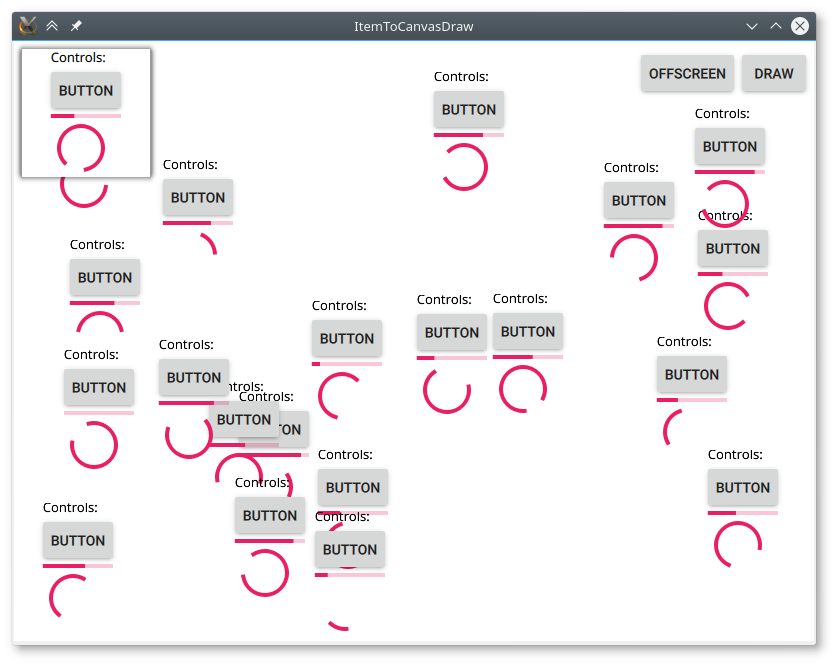
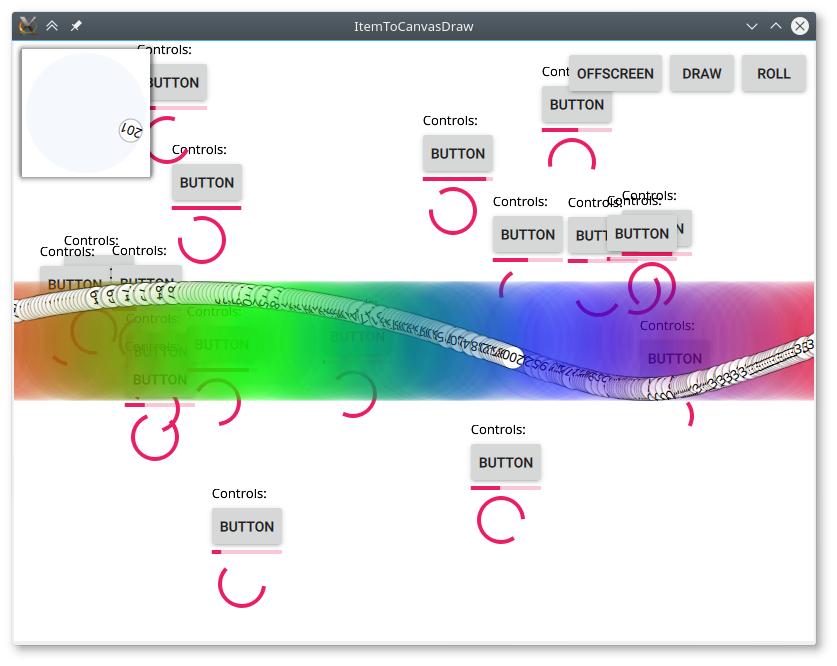
add sprite_generator to 001.ItemToCanvasDraw

diff --git a/001.ItemToCanvasDraw/sprite_generator.qml b/001.ItemToCanvasDraw/sprite_generator.qml
@@ -1,0 +1,171 @@
+
+import QtQuick 2.7
+import QtQuick.Window 2.2
+import QtQuick.Controls 2.0
+import QtGraphicalEffects 1.0
+
+Window {
+	id: window
+	title: "ItemToCanvasDraw"
+	visible: true
+	width: Math.max(800, recorder.width+16+sprite.width)
+	height: Math.max(600, recorder.height+16)
+
+	property int frameCounter: 0
+
+	Rectangle {
+		id: recorder
+		anchors.left: parent.left
+		anchors.bottom: parent.bottom
+		anchors.margins: 8
+		border.color: "black"
+		border.width: 1
+		width: item.width*6
+		height: item.height*5
+
+		Canvas {
+			id: canvas
+			anchors.fill: parent
+
+			property int counter
+
+			onPaint: {
+				if (!item.texture)
+					return
+
+				record(getContext("2d"))
+			}
+
+			onPainted: {
+				if (counter == 30) {
+					grabToImage(function(result){
+						result.saveToFile("sprite.png")
+					})
+				}
+			}
+
+			function record(ctx){
+				if (counter==0)
+					ctx.clearRect(0, 0, width, height)
+				var x = item.width * (counter % 6)
+				var y = item.height * parseInt(counter / 6)
+				ctx.drawImage(item.texture.url, x, y)
+				counter++
+			}
+		}
+	}
+
+	Rectangle {
+		id: player
+		anchors.top: recorder.top
+		anchors.left: recorder.right
+		anchors.right: parent.right
+		anchors.bottom: parent.bottom
+		anchors.leftMargin: 8
+		anchors.rightMargin: 8
+		anchors.bottomMargin: 8
+		border.color: "black"
+		border.width: 1
+
+		AnimatedSprite {
+			id: sprite
+			width: frameWidth
+			height: frameHeight
+			anchors.centerIn: parent
+			frameCount: 30
+			frameWidth: item.width
+			frameHeight: item.height
+			loops: 1
+			interpolate: true
+			running: false
+
+			onRunningChanged: {
+				if (!running)
+					sprite.source = ""
+			}
+		}
+	}
+
+	Rectangle {
+		id: itemView
+		anchors.margins: 8
+		anchors.top: parent.top
+		anchors.left: parent.left
+		width: item.width + 8
+		height: item.height + 8
+
+		Item {
+			id: item
+			anchors.centerIn: parent
+			width: 120
+			height: width
+
+			property var texture: null
+
+			Column {
+				anchors.centerIn: parent
+
+				Text {
+					text: "Controls:"
+				}
+
+				Button {
+					text: canvas.counter
+				}
+
+				BusyIndicator {
+					running: true
+				}
+			}
+
+		}
+
+		layer.enabled: true
+		layer.effect: Glow {
+			color: Qt.rgba(0, 0, 0, .4)
+			radius: 8
+			samples: 15
+			transparentBorder: true
+		}
+	}
+
+	Row {
+		id: controls
+		anchors.margins: 8
+		anchors.top: parent.top
+		anchors.right: parent.right
+		spacing: 8
+
+		Button {
+			text: "record"
+			onClicked: {
+				canvas.counter = 0
+				window.draw()
+			}
+		}
+
+		Button {
+			text: "play"
+			onClicked: {
+				sprite.running = false
+				sprite.frameRate = Math.random()>.5?3:30
+				sprite.source = "sprite.png"
+				sprite.start()
+			}
+		}
+	}
+
+	onFrameSwapped: {
+		frameCounter++
+		if ((frameCounter&1) && canvas.counter<30) {
+			draw()
+		}
+	}
+
+	function draw() {
+		item.grabToImage(function(result){
+			item.texture = result
+			canvas.requestPaint()
+		})
+	}
+}

diff --git a/001.ItemToCanvasDraw/main.qml b/001.ItemToCanvasDraw/main.qml
@@ -21,7 +21,7 @@ Window {
 		id: canvas
 		anchors.fill: parent
 
-		property var paintFunc: canvas.randomDraw
+		property var paintFunc: item.showWheel?traceWheel:randomDraw
 
 		onPaint: {
 			if (!item.texture)
@@ -37,6 +37,12 @@ Window {
 		function randomDraw(ctx){
 			var x = Math.random()*(width-item.width)
 			var y = Math.random()*(height-item.height)
+			ctx.drawImage(item.texture.url, x, y)
+		}
+
+		function traceWheel(ctx){
+			var x = wheel.deg * (width+item.width)/360-item.width
+			var y = (height-item.height)/2
 			ctx.drawImage(item.texture.url, x, y)
 		}
 	}
@@ -58,8 +64,10 @@ Window {
 			height: width
 
 			property var texture: null
+			property bool showWheel: false
 
 			Column {
+				visible: !parent.showWheel
 				anchors.centerIn: parent
 
 				Text {
@@ -79,6 +87,49 @@ Window {
 
 				BusyIndicator {
 					running: true
+				}
+			}
+
+			Rectangle {
+				id: wheel
+				visible: parent.showWheel
+				width: Math.min(parent.width, parent.height)
+				height: width
+				radius: width
+
+				property real deg: 360
+
+				color: Qt.rgba(1-(deg<120?deg:360-deg)/120, 1-Math.abs(deg-120)/120, 1-Math.abs(deg-240)/120, .04)
+				rotation: deg
+
+				Rectangle {
+					y: parent.height/2-height/2
+					width: 24
+					height: width
+					radius: width
+					border.color: "#40000000"
+					border.width: 1
+
+					Text {
+						anchors.centerIn: parent
+						text: parent.parent.deg.toFixed(0)
+					}
+				}
+
+				onDegChanged: {
+					if (visible) {
+						window.draw()
+					}
+				}
+
+				NumberAnimation {
+					loops: Animation.Infinite
+					running: true
+					target: wheel
+					property: "deg"
+					from: 0
+					to: 360
+					duration: 5000
 				}
 			}
 		}
@@ -108,8 +159,16 @@ Window {
 		Button {
 			text: "draw"
 			onClicked: {
+				item.showWheel = false
 				text.text = Math.random()
 				window.draw()
+			}
+		}
+
+		Button {
+			text: "roll"
+			onClicked: {
+				item.showWheel = true
 			}
 		}
 	}

diff --git a/001.ItemToCanvasDraw/README.md b/001.ItemToCanvasDraw/README.md
@@ -3,10 +3,13 @@ This project demostrates how to paint the content of Item into a canvas with **Q
 
 ![](./main.0.png)
 
-![](./main.1.png)
-
 ##[sprite_generator](./sprite_generator.qml)
 Record QML animation to canvas and then saves the sprite to file.
+
+![](./sprite.0.png)
+
+##[shadershadowblur](./shadershadowblur.qml)
+Use Shadereffect to generate shadowblur as the workaround of bad performance of Canvas2D shadowblur.
 
 ##[scroll_and_stitch](./scroll_and_stitch.qml)
 So easy to stitch and save the webpage.
